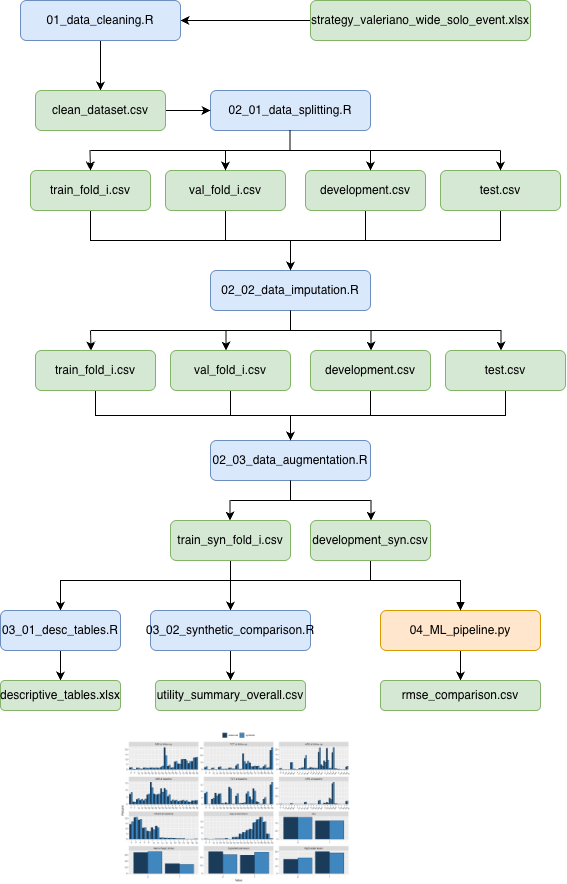
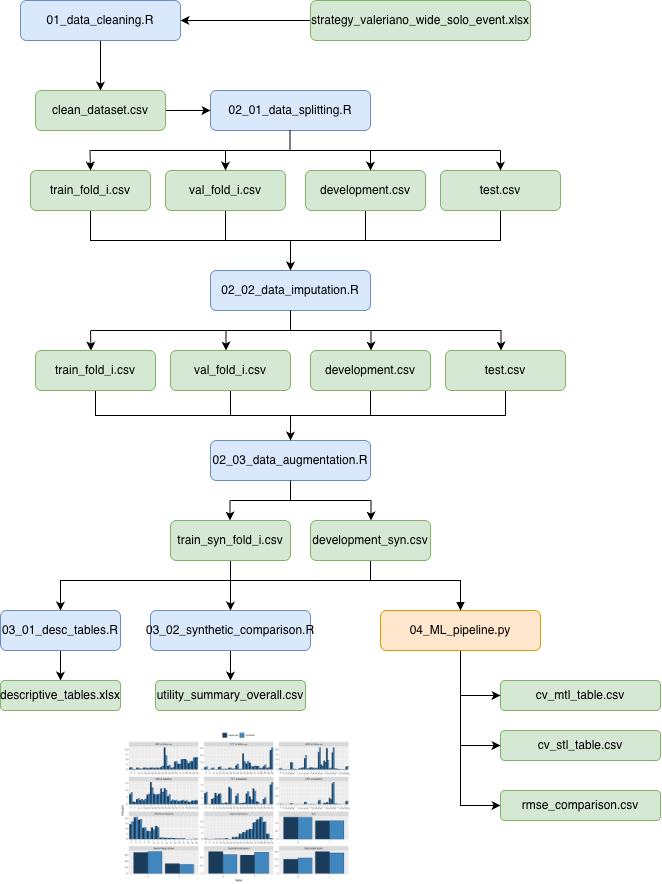
Updated flowchart and changed ML for saving cv results

diff --git a/Python/04_ML_pipeline.py b/Python/04_ML_pipeline.py
@@ -524,6 +524,7 @@ print(f"{'Mean':<12} {mean_rmse_mtl:<15.4f} {mean_rmse_stl:<20.4f}")
 
 maindir = "/Users/valerianovidetta/Desktop/Tesi"
 diroutput = maindir + "/Code/Output"
+os.makedirs(diroutput + "/ML", exist_ok=True)
 os.makedirs(maindir + "/results", exist_ok=True)
 
 # --- MTL: cv_results_ for each model ---
@@ -565,6 +566,50 @@ for (outcome, model_name), res in stl_results.items():
 
 pd.DataFrame(stl_best_rows).to_csv(maindir + "/results/best_params_stl.csv", index=False)
 
+# CV TABLES
+
+def best_cv_summary(gs):
+    """Medie train/val della combinazione migliore."""
+    idx = gs.best_index_
+    res = gs.cv_results_
+    return {
+        'train': -res['mean_train_score'][idx],
+        'val':   -res['mean_test_score'][idx],
+    }
+
+# --- MTL ---
+mtl_rows = []
+for name, gs in mtl_models.items():
+    s = best_cv_summary(gs)
+    mtl_rows.append({
+        'model': name,
+        'train_nrmse': s['train'],
+        'val_nrmse': s['val'],
+        'grid_time_min': mtl_results[name]['time_min'],
+    })
+
+pd.DataFrame(mtl_rows).sort_values('val_nrmse') \
+    .to_csv(diroutput + "/ML/cv_mtl_table.csv", index=False)
+
+# --- STL ---
+stl_rows = []
+for outcome in outcomes:
+    for model_name in ['RF', 'EN', 'CB', 'XGB']:
+        gs = stl_grids[(outcome, model_name)]
+        s = best_cv_summary(gs)
+        stl_rows.append({
+            'outcome': outcome,
+            'model': model_name,
+            'train_rmse': s['train'],
+            'val_rmse': s['val'],
+            'grid_time_min': stl_results[(outcome, model_name)]['time_min'],
+        })
+
+stl_table = pd.DataFrame(stl_rows)
+stl_table['outcome'] = pd.Categorical(stl_table['outcome'], categories=outcomes, ordered=True)
+stl_table.sort_values(['outcome', 'val_rmse']) \
+    .to_csv(diroutput + "/ML/cv_stl_table.csv", index=False)
+
 # ================================ #
 #      SAVING FINAL RESULTS        #
 # ================================ #
@@ -591,7 +636,7 @@ for outcome, res in rmse_results.items():
         'winner':        best_mtl if res['MTL'] < res['STL'] else best_stl_name
     })
 
-pd.DataFrame(rmse_rows).to_csv(diroutput + "/rmse_comparison.csv", index=False)
+pd.DataFrame(rmse_rows).to_csv(diroutput + "/ML/rmse_comparison.csv", index=False)
 
 # residuals --
 resid_df = y_test.copy().reset_index(drop=True)
